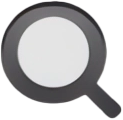
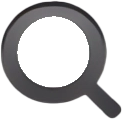
visual feedback and page switching

Changed region(s): [[0.122, 0.125, 0.7317, 0.725]]

diff --git a/my menu.html b/my menu.html
@@ -8,33 +8,31 @@
 </head>
 <body>
     <div class="sidebar">
-        <div class="sidebar-item">
-            <img src="/images/eshop_logo.webp" alt="Home Icon">
+        <a href="index.html" class="sidebar-item">
+            <img src="/images/eshop logo.webp" alt="Home Icon">
             <span>Home</span>
-            <a href="index.html"></a>
-        </div>
-        <div class="sidebar-item">
-            <img src="/images/eng.png" alt="About Icon">
-            <span>About Me</span>
-        </div>
-        <div class="sidebar-item">
+        </a>
+        <a href="my menu.html" class="sidebar-item selected">
+            <img src="/images/eng.png" alt="My Menu Icon">
+            <span>My Menu</span>
+        </a>
+        <a href="https://linkerpink.itch.io/" target="_blank" class="sidebar-item">
             <img src="/images/eng.png" alt="Projects Icon">
             <span>Projects</span>
-        </div>
-        <div class="sidebar-item">
-            <img src="/images/eng.png" alt="Contact Icon">
+        </a>
+        <a href="https://www.google.com" class="sidebar-item">
+            <img src="/images/wii u search.png" alt="Contact Icon">
             <span>Contact</span>
-            <a href="contact.html"></a>
-        </div>
-        <div class="sidebar-item">
-            <img src="/images/eng.png" alt="Close Icon">
+        </a>
+        <a href="https://www.nintendo.com/us/" class="sidebar-item">
+            <img src="/images/wii u close icon.png" alt="Close Icon">
             <span>Close</span>
-        </div>
+        </a>
     </div>
     
     <div class="content">
         <!-- Your website content -->
-        <h1>Hello, World!</h1>
+        <h1>About me</h1>
         <p>This is a sample website content.</p>
     </div>
 

diff --git a/index.html b/index.html
@@ -8,33 +8,31 @@
 </head>
 <body>
     <div class="sidebar">
-        <div class="sidebar-item">
+        <a href="index.html" class="sidebar-item selected">
             <img src="/images/eshop logo.webp" alt="Home Icon">
             <span>Home</span>
-            <a href="index.html"></a>
-        </div>
-        <div class="sidebar-item">
-            <img src="/images/eng.png" alt="About Icon">
+        </a>
+        <a href="my menu.html" class="sidebar-item">
+            <img src="/images/eng.png" alt="My Menu Icon">
             <span>My Menu</span>
-        </div>
-        <div class="sidebar-item">
+        </a>
+        <a href="https://linkerpink.itch.io/" target="_blank" class="sidebar-item">
             <img src="/images/eng.png" alt="Projects Icon">
             <span>Projects</span>
-        </div>
-        <div class="sidebar-item">
+        </a>
+        <a href="https://www.google.com" class="sidebar-item">
             <img src="/images/wii u search.png" alt="Contact Icon">
             <span>Contact</span>
-            <a href="contact_me.html"></a>
-        </div>
-        <div class="sidebar-item">
+        </a>
+        <a href="https://www.nintendo.com/us/" class="sidebar-item">
             <img src="/images/wii u close icon.png" alt="Close Icon">
             <span>Close</span>
-        </div>
+        </a>
     </div>
     
     <div class="content">
         <!-- Your website content -->
-        <h1>Hello, World!</h1>
+        <h1>Home</h1>
         <p>This is a sample website content.</p>
     </div>
 

diff --git a/style.css b/style.css
@@ -43,6 +43,8 @@ body, html {
     -webkit-user-drag: none;
     user-select: none;
     -moz-user-select: none;
+    text-decoration: none;
+    cursor: none;
 }
 
 .sidebar-item img {
@@ -59,26 +61,42 @@ body, html {
     margin-top: 15px;
 }
 
+.sidebar-item:hover {
+    background-color: #CBF8FE;
+}
+
+.sidebar-item.selected {
+    color: #F57C00;
+}
+
 .sidebar-item:first-child {
     border-radius: 0px 35% 0 0;
-    color: #F57C00;
+    
 }
 
 .sidebar-item:last-child {
     border-radius: 0 0 35% 0px;
-    background-image: linear-gradient(to right, #545454, #323232); /* Darker grey for bottom button */
+    background-image: linear-gradient(to right, #545454, #323232);
     color: #fafafa;
     border-bottom: none;
+}
+
+.sidebar-item:last-child:hover {
+    background-image: linear-gradient(to right, #325c63, #323232);
 }
 
 .sidebar-item.active {
     background-color: #F57C00;
 }
 
-/* Content styles */
 .content {
     flex-grow: 1;
     padding: 20px;
+    margin-left: 235px;
+    width: calc(100% - 235px);
+    display: flex;
+    flex-direction: column;
+    align-items: center;
 }
 
 /* CSS for the custom cursor */
